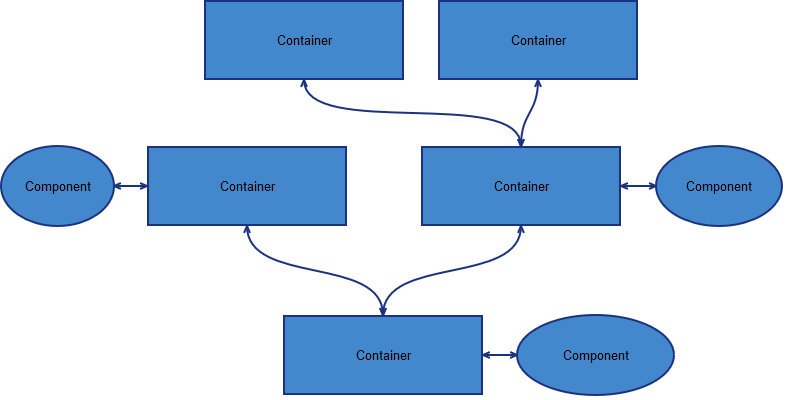
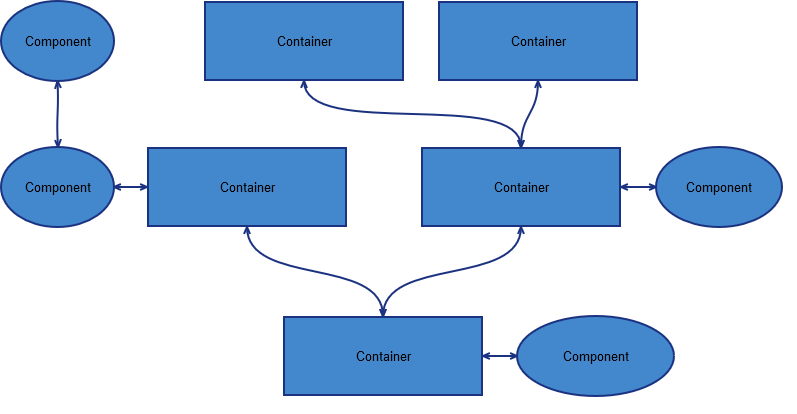
Project structure.

diff --git a/README.md b/README.md
@@ -68,7 +68,7 @@ One way could be by using `this.props.children`, not so sure is very likeable.
 
 A better way (in my opinion, lets see if feasible) is to pass containers through props, and define them into contract as `React.PropTypes.element`. In this way we will stay in the actual container definition.
 
-A container can import other containers and components and can pass to props only containers (why you should pass components?), a component can import only other components.
+A container can import other containers and one component and can pass to props only containers (why you should pass components?), a component can import only other components.
 
 ![Composing elements](img/ViewStruct.png "Composing elements")
 
@@ -84,3 +84,47 @@ http://jaysoo.ca/2016/02/28/organizing-redux-application/
 
 http://marmelab.com/blog/2015/12/17/react-directory-structure.html
 
+As already said in different articles there is a short tree of defining by nature the folders, that fails in bigger applications. Even grouping by domain, better than previous, fails in my opinion by repeating same wordings again and again.
+
+I would use a deeper structure, not to deep as it can result in too big require paths, but deep enough to give an understandable and meaningful view over the application.
+ 
+### Pods and Apps of Apps
+ 
+Apps of Apps can become a huge tree, the concept of Pods being more appealing for me as you can import a Pod into another. So lets debate Pods project structure, Features First.
+
+```
+src/
+  auth/
+    redux/
+      actions/
+      reducers/
+    components/
+      todo/
+      addTodo/
+    helpers/
+    container1.js
+    container2.js
+    appReducer.js
+    index.js
+  comments/
+    redux/
+    components/
+    helpers/
+    container1.js
+    container2.js
+    appReducer.js
+    index.js
+  todos/
+    . . .
+  mainLayout/
+    . . .
+  . . .
+  mainReducer.js
+```
+ 
+ The last level, defining another set of functionalities, it's needed only for a stack that builds for different platforms, as ex React and React Native, as contains files for each platform. 
+ 
+ As for the redux folder I would prefer something that generates actions from reducers or reducers from actions, something that you are defining once and have both as a result.
+ 
+ Containers are placed just in the root of each Pod, naturally requiring from subfolders. A container can also import a container from another Pod.
+  
